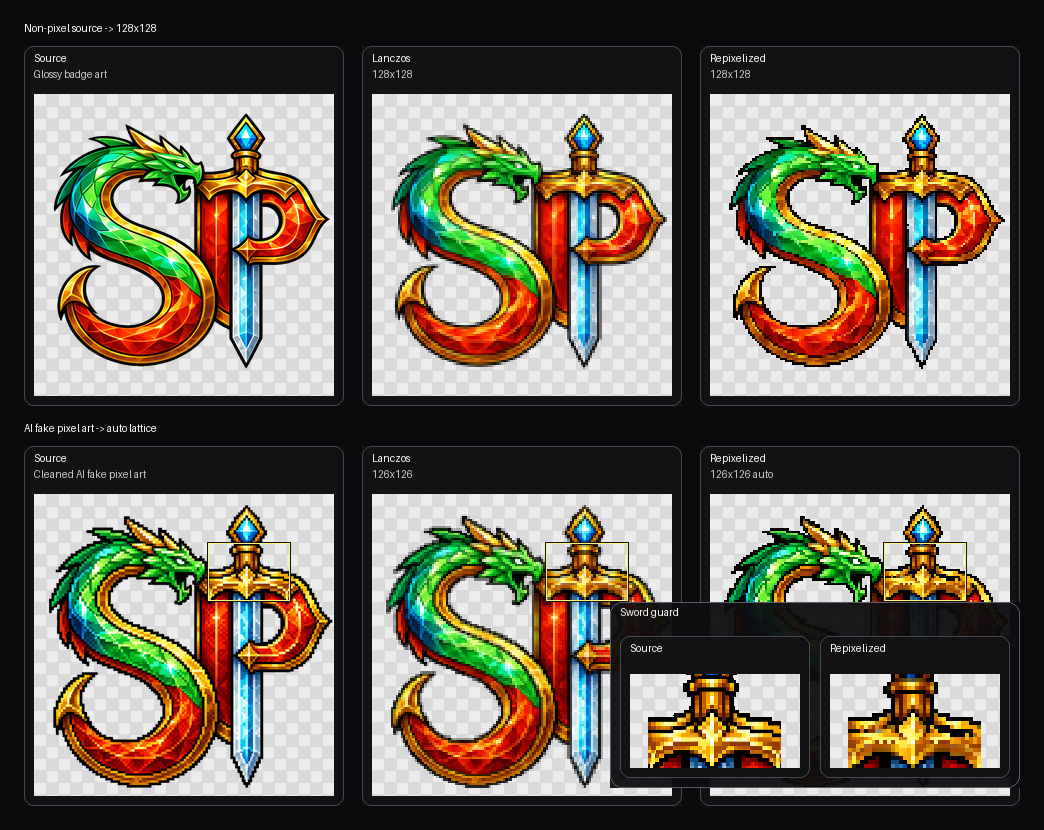
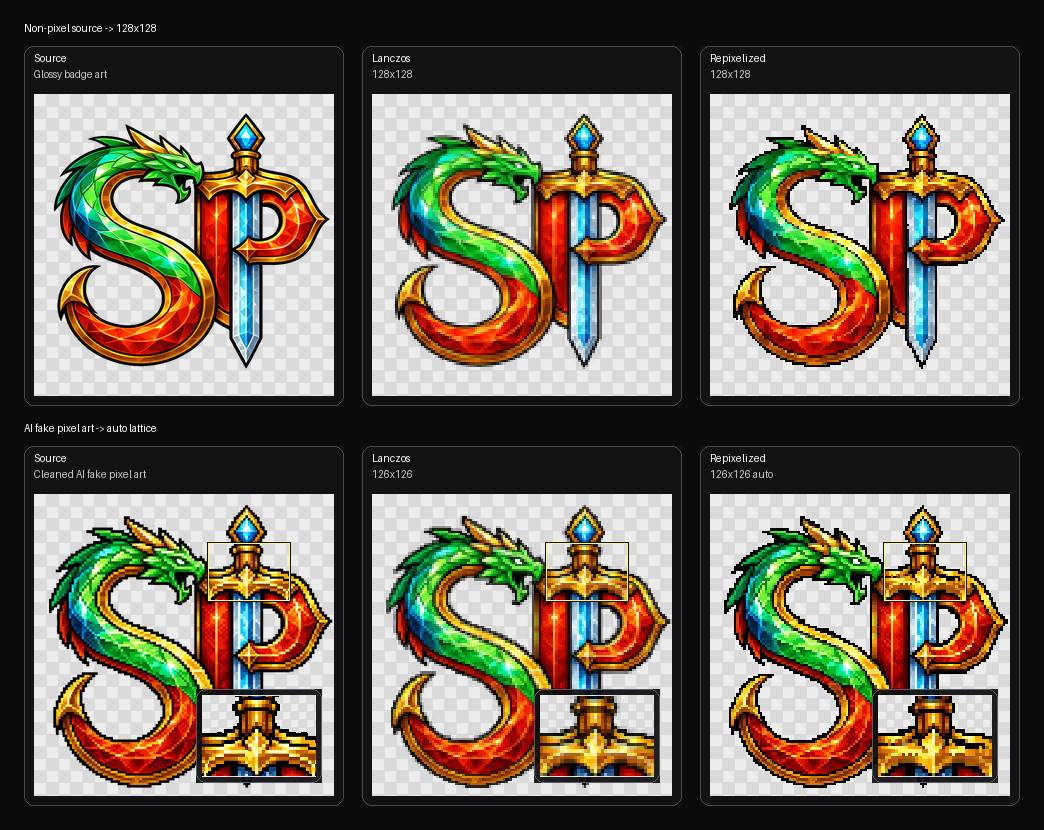
Refine README panel picture-in-picture layout

Changed region(s): [[0.4904, 0.7229, 0.9808, 0.9639], [0.1839, 0.8133, 0.3065, 0.9639]]

diff --git a/scripts/generate_readme_previews.py b/scripts/generate_readme_previews.py
@@ -152,7 +152,7 @@ def _build_guard_strip(
     include_lanczos: bool = True,
     panel_width: int = 220,
     panel_height: int = 170,
-    title: str = "Sword guard close-up",
+    title: str | None = "Sword guard close-up",
 ) -> Image.Image:
     panels = [
         _render_panel("Source", rgba=source_crop, pixelated=True, panel_width=panel_width, panel_height=panel_height),
@@ -163,19 +163,48 @@ def _build_guard_strip(
             1,
             _render_panel("Lanczos", rgba=lanczos_crop, pixelated=True, panel_width=panel_width, panel_height=panel_height),
         )
-    title_height = 24
+    title_height = 24 if title else 0
     gap = 10
     width = sum(panel.image.width for panel in panels) + gap * (len(panels) + 1)
     height = title_height + max(panel.image.height for panel in panels) + gap * 2
     canvas = Image.new("RGBA", (width, height), (14, 14, 16, 242))
     draw = ImageDraw.Draw(canvas)
     draw.rounded_rectangle((0, 0, width - 1, height - 1), radius=12, fill=(14, 14, 16, 242), outline=(92, 92, 104, 255), width=1)
-    draw.text((gap, 4), title, fill=(255, 255, 255, 255))
+    if title:
+        draw.text((gap, 4), title, fill=(255, 255, 255, 255))
     x = gap
     for panel in panels:
         canvas.alpha_composite(panel.image, (x, title_height + gap))
         x += panel.image.width + gap
     return canvas
+
+
+def _build_pip_inset(
+    rgba_crop: np.ndarray,
+    *,
+    width: int = 126,
+    height: int = 94,
+) -> Image.Image:
+    fitted, (inner_x, inner_y, inner_w, inner_h) = _fit_rgba(
+        rgba_crop,
+        target_width=width - 12,
+        target_height=height - 12,
+        pixelated=True,
+    )
+    canvas = Image.new("RGBA", (width, height), (14, 14, 16, 236))
+    draw = ImageDraw.Draw(canvas)
+    draw.rounded_rectangle((0, 0, width - 1, height - 1), radius=10, fill=(14, 14, 16, 236), outline=(92, 92, 104, 255), width=1)
+    checker = _checkerboard(width - 12, height - 12, tile=8)
+    canvas.alpha_composite(checker, (6, 6))
+    canvas.alpha_composite(fitted, (6 + inner_x, 6 + inner_y))
+    return canvas
+
+
+def _add_pip_inset(render: RenderedPanel, inset: Image.Image, *, margin_x: int = 12, margin_y: int = 12) -> None:
+    inner_x, inner_y, inner_w, inner_h = render.content_box
+    placement_x = inner_x + max(0, inner_w - inset.width - margin_x)
+    placement_y = inner_y + max(0, inner_h - inset.height - margin_y)
+    render.image.alpha_composite(inset, (placement_x, placement_y))
 
 
 def _cell_bbox_to_source_bbox(
@@ -325,17 +354,16 @@ def main() -> None:
         _crop_rgba(ai_source, guard_bbox),
         _crop_rgba(ai_lanczos_preview, guard_bbox),
         _crop_rgba(ai_repixelized_preview, guard_bbox),
+        title=None,
     )
     guard_strip.save(out_guard_crop)
-    guard_inset = _build_guard_strip(
+    ai_crops = [
         _crop_rgba(ai_source, guard_bbox),
         _crop_rgba(ai_lanczos_preview, guard_bbox),
         _crop_rgba(ai_repixelized_preview, guard_bbox),
-        include_lanczos=False,
-        panel_width=190,
-        panel_height=142,
-        title="Sword guard",
-    )
+    ]
+    for panel, crop in zip(ai_panels, ai_crops, strict=True):
+        _add_pip_inset(panel, _build_pip_inset(crop))
 
     width = margin * 2 + panel_width * 3 + col_gap * 2
     height = margin * 2 + row_title_height * 2 + panel_height * 2 + row_gap
@@ -354,10 +382,6 @@ def main() -> None:
     for panel in ai_panels:
         canvas.alpha_composite(panel.image, (x, row2_y))
         x += panel_width + col_gap
-
-    inset_x = width - guard_inset.width - margin
-    inset_y = row2_y + panel_height - guard_inset.height - 18
-    canvas.alpha_composite(guard_inset, (inset_x, inset_y))
 
     out_sheet.parent.mkdir(parents=True, exist_ok=True)
     canvas.save(out_sheet)
